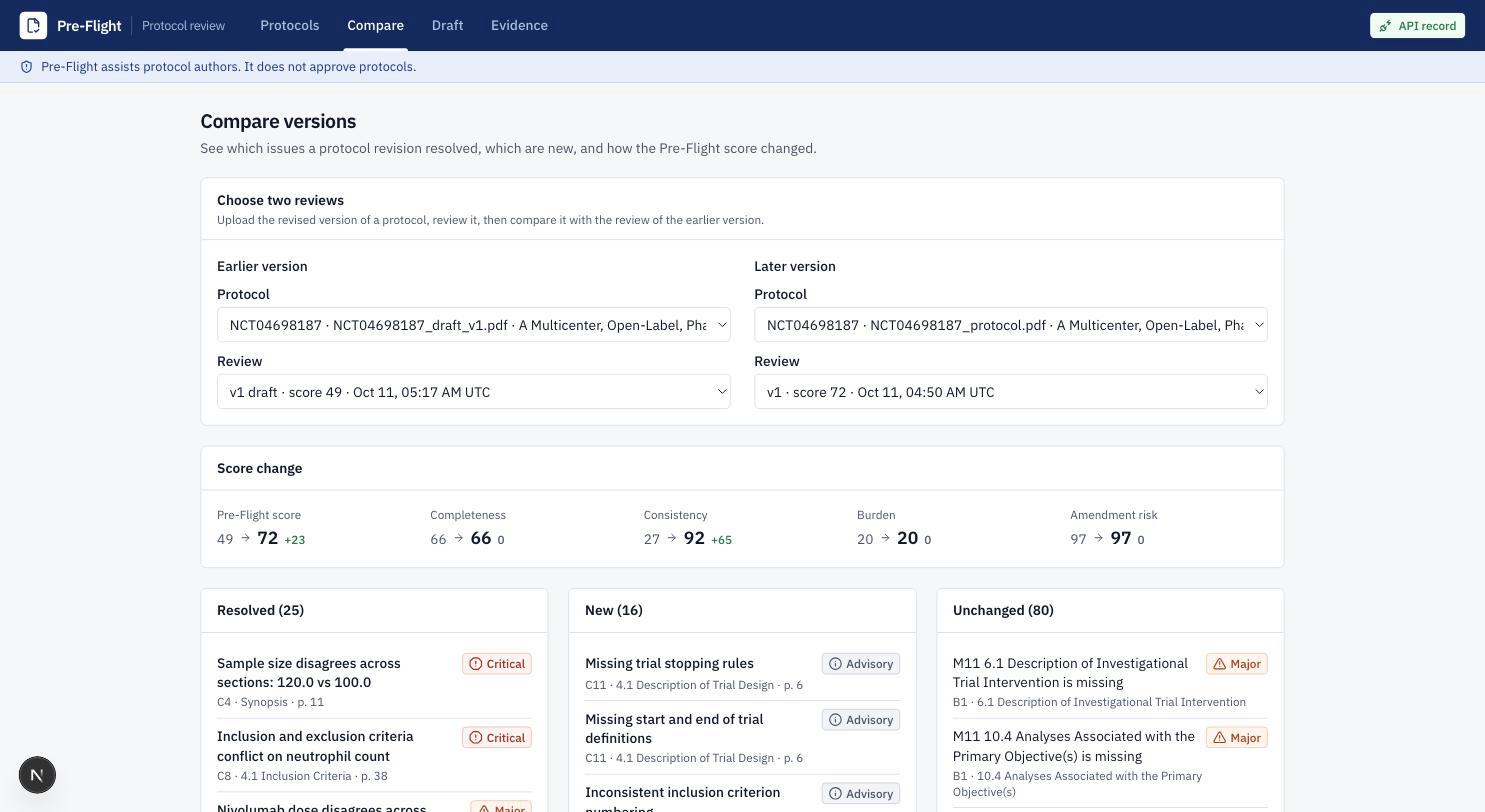
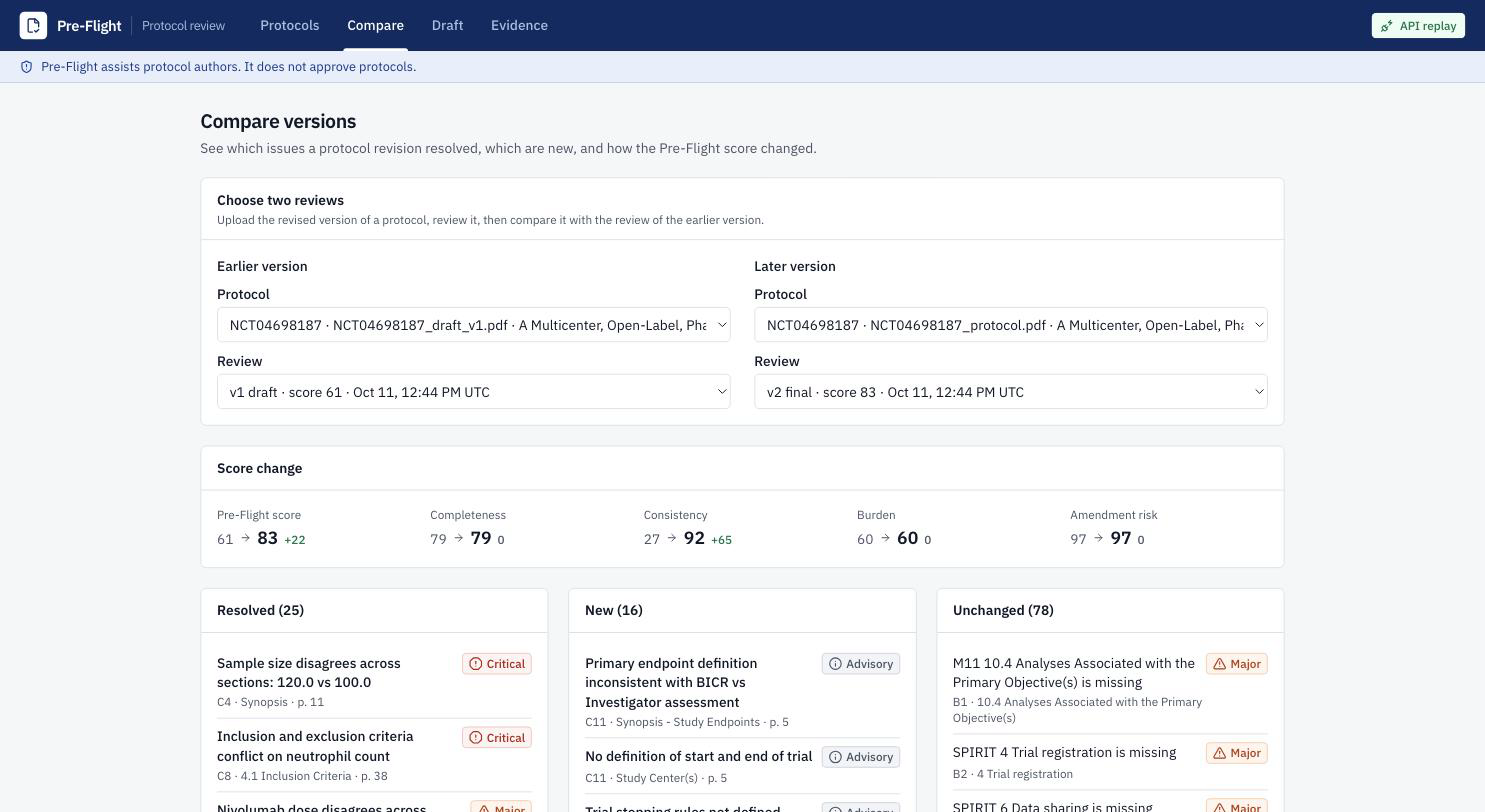
Screenshots and demo script show the new scores (83; Compare 61 -> 83)

diff --git a/docs/DEMO_SCRIPT.md b/docs/DEMO_SCRIPT.md
@@ -12,7 +12,7 @@ planted errors.
 | 0:20-0:40 | Upload `NCT04698187_protocol.pdf` with the NCT id, Full review, Start | "A real 134-page Regeneron melanoma protocol from ClinicalTrials.gov. Pre-Flight reads the PDF, maps it to ICH M11, extracts the Schedule of Activities, objectives, endpoints and eligibility, then runs rule checks and four AI reviewers." (Progress steps stream in.) |
 | 0:40-1:20 | Review workspace | Point at the score and the four sub-scores. Click the major issue *"Endpoint 'Anti-Qb antibodies' has no analysis method"*: "Every finding says where, why, and how to fix it." Click the hotspot *"25 exclusion criteria: 85% of similar trials have fewer"*: the PDF jumps to page 39 and highlights the criterion. Click an AI finding and point at **Verified**: "An AI finding is only shown if its quote is actually on the cited page." Accept one issue with a note and watch the score update. |
 | 1:20-1:45 | Burden & peers | "Participant burden: 14 visits, 44 hours, $16k per patient, heavier than 80% of 34 peer trials. Each metric is compared with 200 similar melanoma trials; the outliers are amendment-risk hotspots, with precedent from the closest trials." |
-| 1:45-2:05 | Compare versions: earlier draft → final protocol | "Upload a revision and see what changed: 25 issues resolved, including a sample size that disagreed between sections, a nivolumab dose mismatch and overlapping visit windows. Score 49 → 72." |
+| 1:45-2:05 | Compare versions: earlier draft → final protocol | "Upload a revision and see what changed: 25 issues resolved, including a sample size that disagreed between sections, a nivolumab dose mismatch and overlapping visit windows. Score 61 → 83." |
 | 2:05-2:25 | Draft | Show the brief and a generated draft (pre-generate one before recording): "From a short brief, Pre-Flight drafts M11 sections citing precedent trials, computes the sample size with a calculator rather than the model, and runs its own checks on the draft." |
 | 2:25-2:50 | Evidence | "We measure ourselves. On 65 errors injected into 7 held-out protocols, the full system has 90% precision and beats both rules alone and an LLM alone, which gets only 10% precision. Zero ungrounded AI findings shown." Move the ROI sliders: "At our measured catch rate, about $59k expected savings per Phase III protocol." |
 | 2:50-3:00 | Export menu, then the banner | "USDM JSON, M11 Word document, and an issue report. Open source, MIT, runs from a clean clone. Pre-Flight assists protocol authors; it doesn't approve protocols." |
